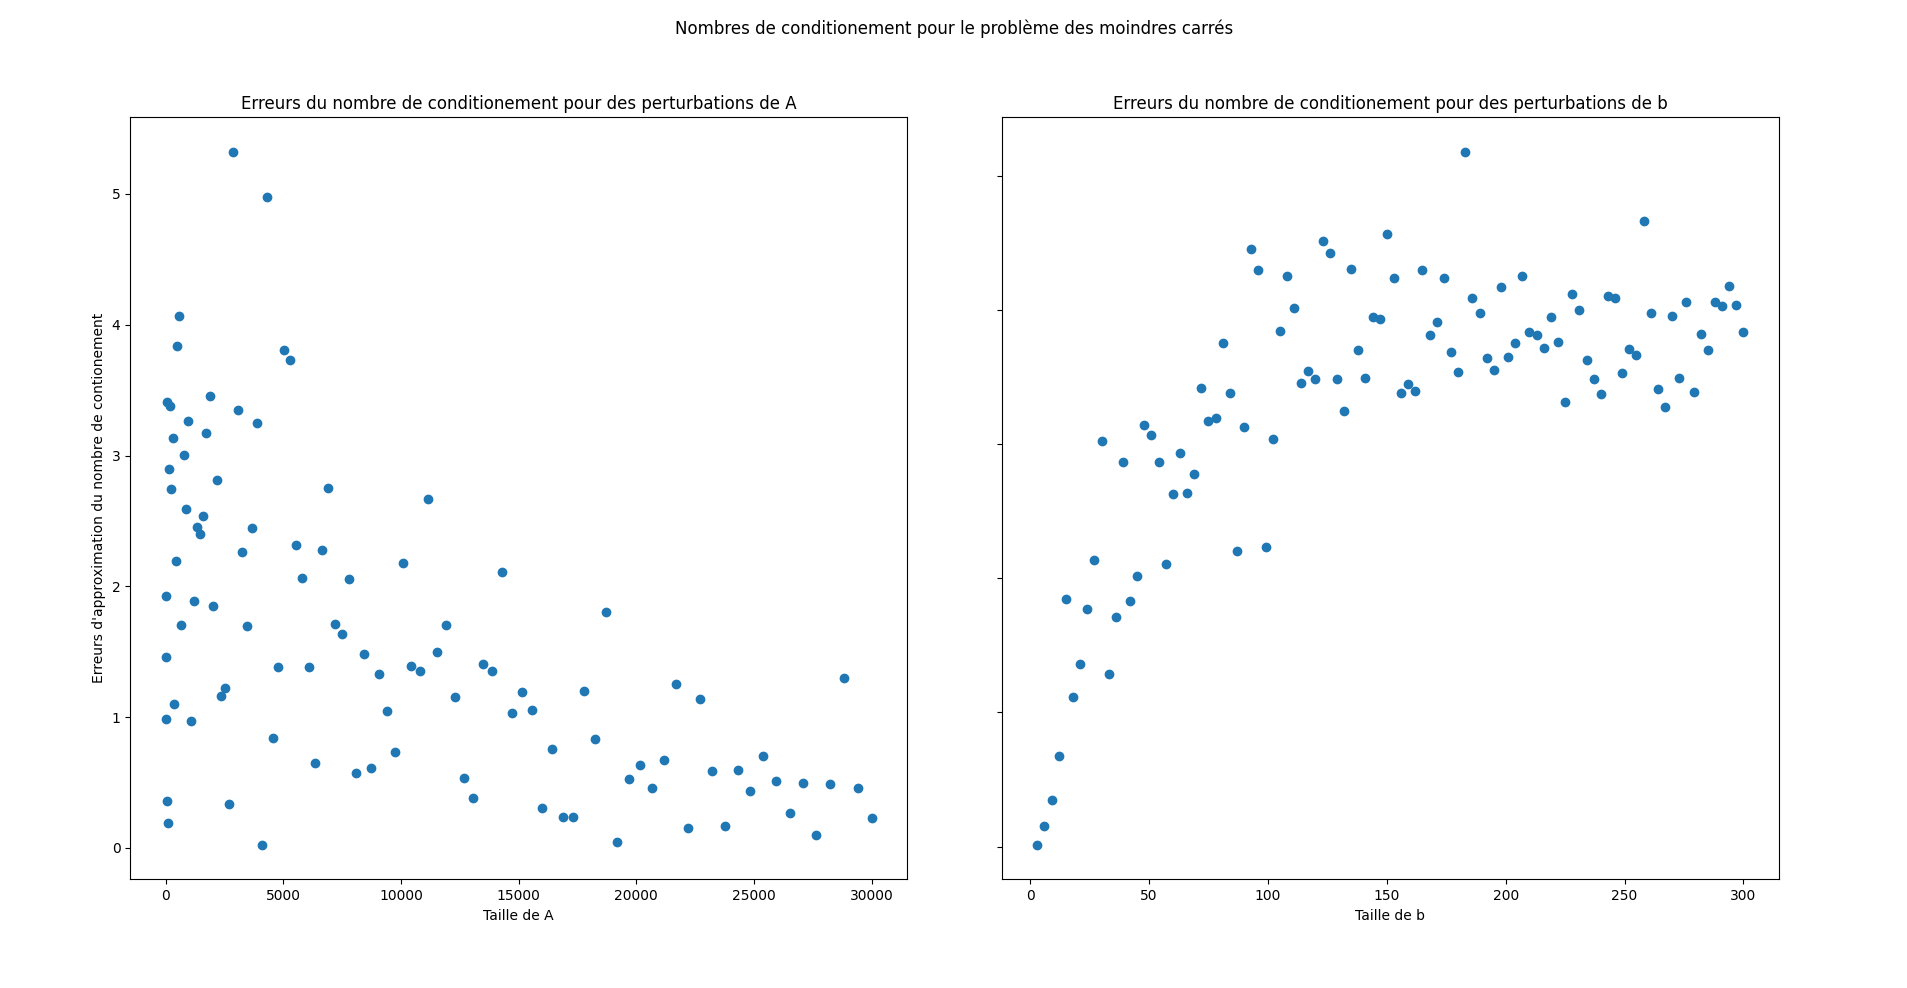
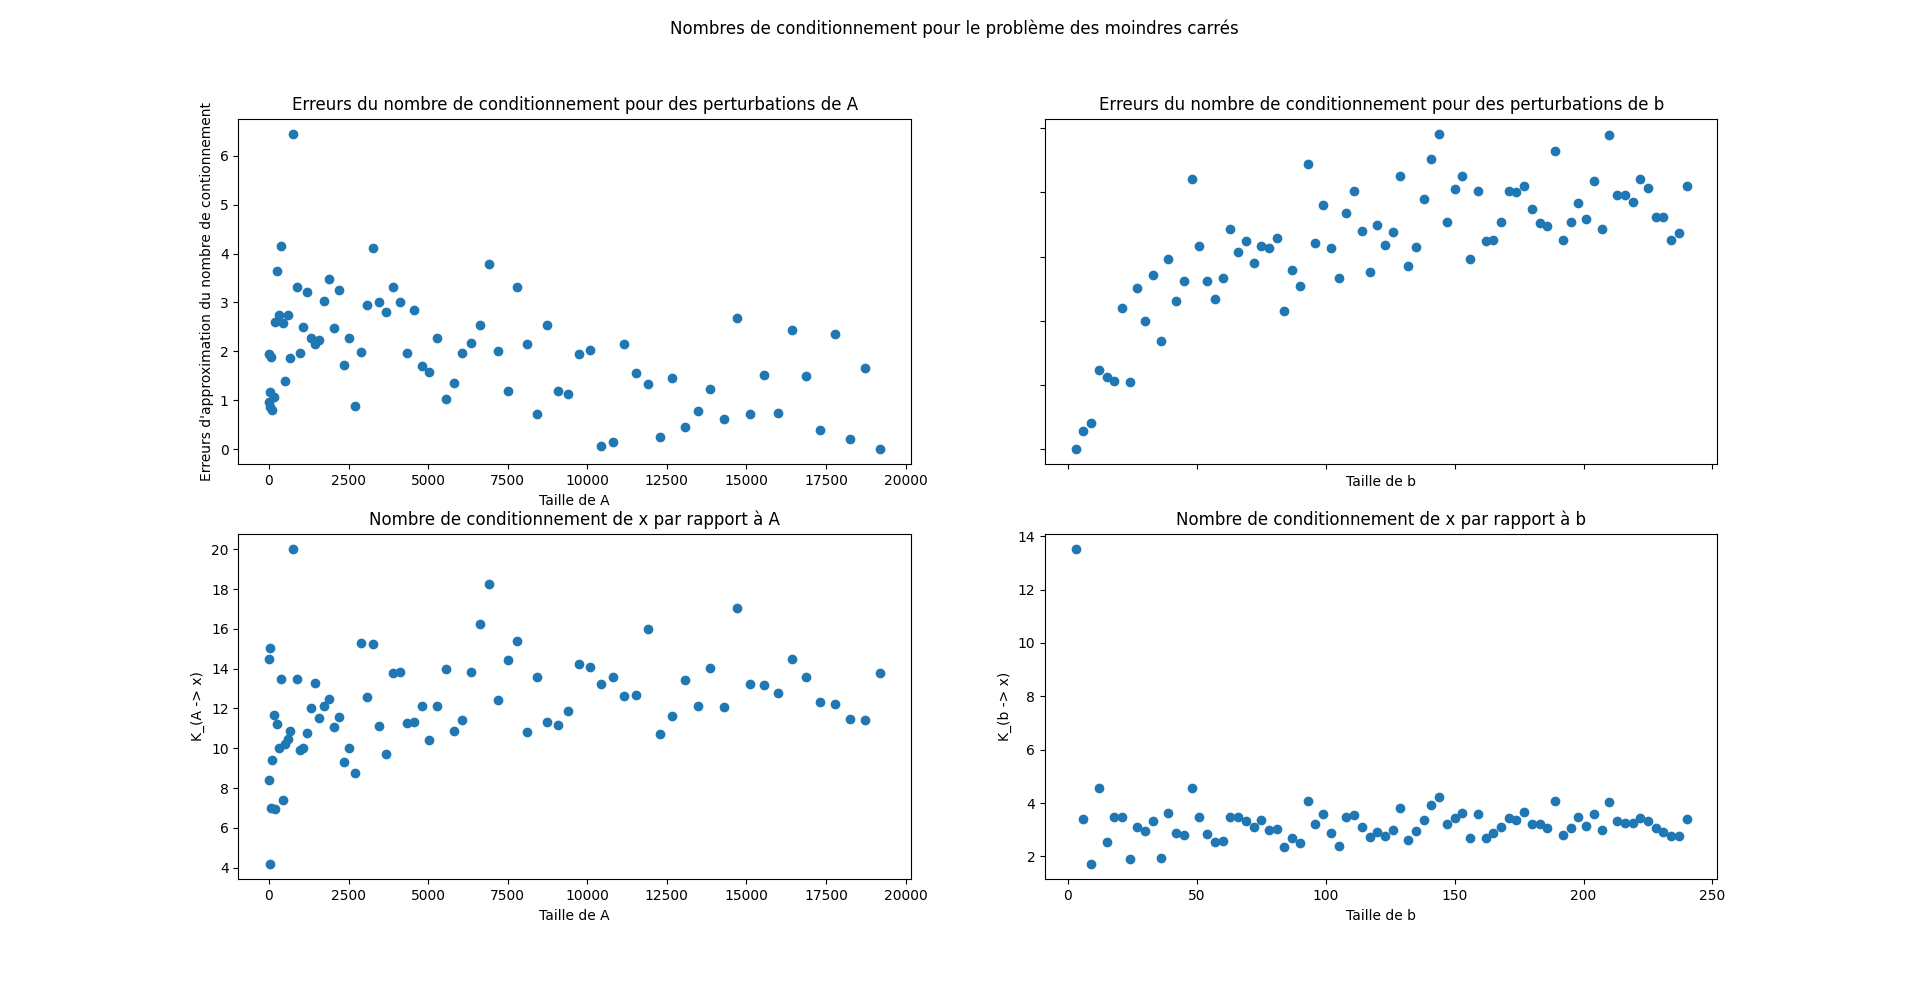
Perfect conditionnement.py and graph

diff --git a/Devoir 2/conditionnement.py b/Devoir 2/conditionnement.py
@@ -10,7 +10,21 @@ start = time.time()
 # du problème des moindres carrés en fonction de A et de b.
 @numba.jit(nopython=True, parallel=True)
 def makeDeltas(A,b,x, p=1000):
+    """Génère 2 tableaux des variations de x dans A.T @ A x = A.T @ b
+    selon A et b. Ceci permet d'approximer la limite décrite dans la définition
+    du nombre (relatif) de conditionnement.
 
+
+    Args:
+        A (numpy array): Matrice des coefficients du problème des moindres carrés
+        b (numpy array): Points à approximer par les moindres carrés
+        x (numpy array): Solution
+        p (int, optional): Nombre d'itérations pour trouver le suprémum de la perturbation de x. Defaults to 1000.
+
+    Returns:
+        tuple: Le premier élément est la plus grande variation de x par rapport à A
+                et le second élément est la plus grande variation par rapport à B. 
+    """
     deltas = np.zeros((p,2))
     m,n = A.shape
     for i in numba.prange(p):
@@ -26,6 +40,7 @@ def makeDeltas(A,b,x, p=1000):
         deltas[i,1] = norm(((xbp - x)/norm(x))/(norm(bp - b, ord=2)/ norm(b)))
     return (np.max(deltas[:,0]),np.max(deltas[:,1]))
 
+# Calcul du temps de compilation de makeDeltas
 t1 = time.time()
 makeDeltas(np.random.randn(3,2), np.random.randn(3), np.random.randn(2))
 t2 = time.time()
@@ -35,12 +50,12 @@ makeDeltaCompileTime = t2-t1
 def makeCondErrors (d=10):
     ACondErrors = np.zeros((d,))
     bCondErrors = np.zeros((d,))
+    bConds = np.zeros((d,))
+    AConds = np.zeros((d,))
     ns = np.zeros((d,))
     ms = np.zeros((d,))
 
     for i in numba.prange(d):
-        n = (i+1)*10
-        m = 3*n
         n = i+1
         m = 3*n
         ns[i] = n
@@ -57,30 +72,40 @@ def makeCondErrors (d=10):
         eta = (normA * normx)/norm(y)
         theta = np.arccos(norm(y)/normb)
         Cond_x_b = CondA / (eta*np.cos(theta))
+        bConds[i] = Cond_x_b
         Cond_x_A = CondA + ((CondA*CondA)*np.tan(theta))/eta
+        AConds[i] = Cond_x_A
         ACondErrors[i], bCondErrors[i] = makeDeltas(A,b,x)
         ACondErrors[i] = abs(ACondErrors[i] - Cond_x_A)
         bCondErrors[i] = abs(bCondErrors[i] - Cond_x_b)
-    return ACondErrors,bCondErrors,ms,ns
+    return ACondErrors,bCondErrors,ms,ns, bConds, AConds
+
+# # Calcul du temps de compilation de makeCondErrors
 t1 = time.time()
 makeCondErrors(1)
 t2 = time.time()
 makeCondCompileTime = t2 - t1
 t1 = time.time()
-AErrors,bErrors,ms,ns = makeCondErrors(100)
+AErrors,bErrors,ms,ns,bConds, AConds = makeCondErrors(80)
 t2 = time.time()
 makeCondComputeTime = t2- t1
 
 
-fig, (ax1, ax2) = plt.subplots(1,2)
-fig.suptitle("Nombres de conditionement pour le problème des moindres carrés")
-ax1.set_title("Erreurs du nombre de conditionement pour des perturbations de A")
-ax1.set(xlabel = "Taille de A", ylabel="Erreurs d'approximation du nombre de contionement")
+fig, ((ax1, ax2),(ax3, ax4)) = plt.subplots(2,2)
+fig.suptitle("Nombres de conditionnement pour le problème des moindres carrés")
+ax1.set_title("Erreurs du nombre de conditionnement pour des perturbations de A")
+ax1.set(xlabel = "Taille de A", ylabel="Erreurs d'approximation du nombre de contionnement")
 ax1.scatter(np.multiply(ms,ns),AErrors)
-ax2.set_title("Erreurs du nombre de conditionement pour des perturbations de b")
+ax2.set_title("Erreurs du nombre de conditionnement pour des perturbations de b")
 ax2.label_outer()
 ax2.set(xlabel = "Taille de b")
 ax2.scatter(ms, bErrors)
+ax3.set_title("Nombre de conditionnement de x par rapport à A")
+ax3.set(xlabel = "Taille de A", ylabel="K_(A -> x)")
+ax3.scatter(np.multiply(ms,ns),AConds)
+ax4.set_title("Nombre de conditionnement de x par rapport à b")
+ax4.set(xlabel = "Taille de b", ylabel="K_(b -> x)")
+ax4.scatter(ms, bConds)
 stop = time.time()
 print(f"makeDeltasCompileTime = {makeDeltaCompileTime} ; \nmakeCondCompileTime = {makeCondCompileTime} ; \nmakeCondComputeTime = {makeCondComputeTime} ; \ntotalExecutionTime = {stop - start}")
 plt.show()
